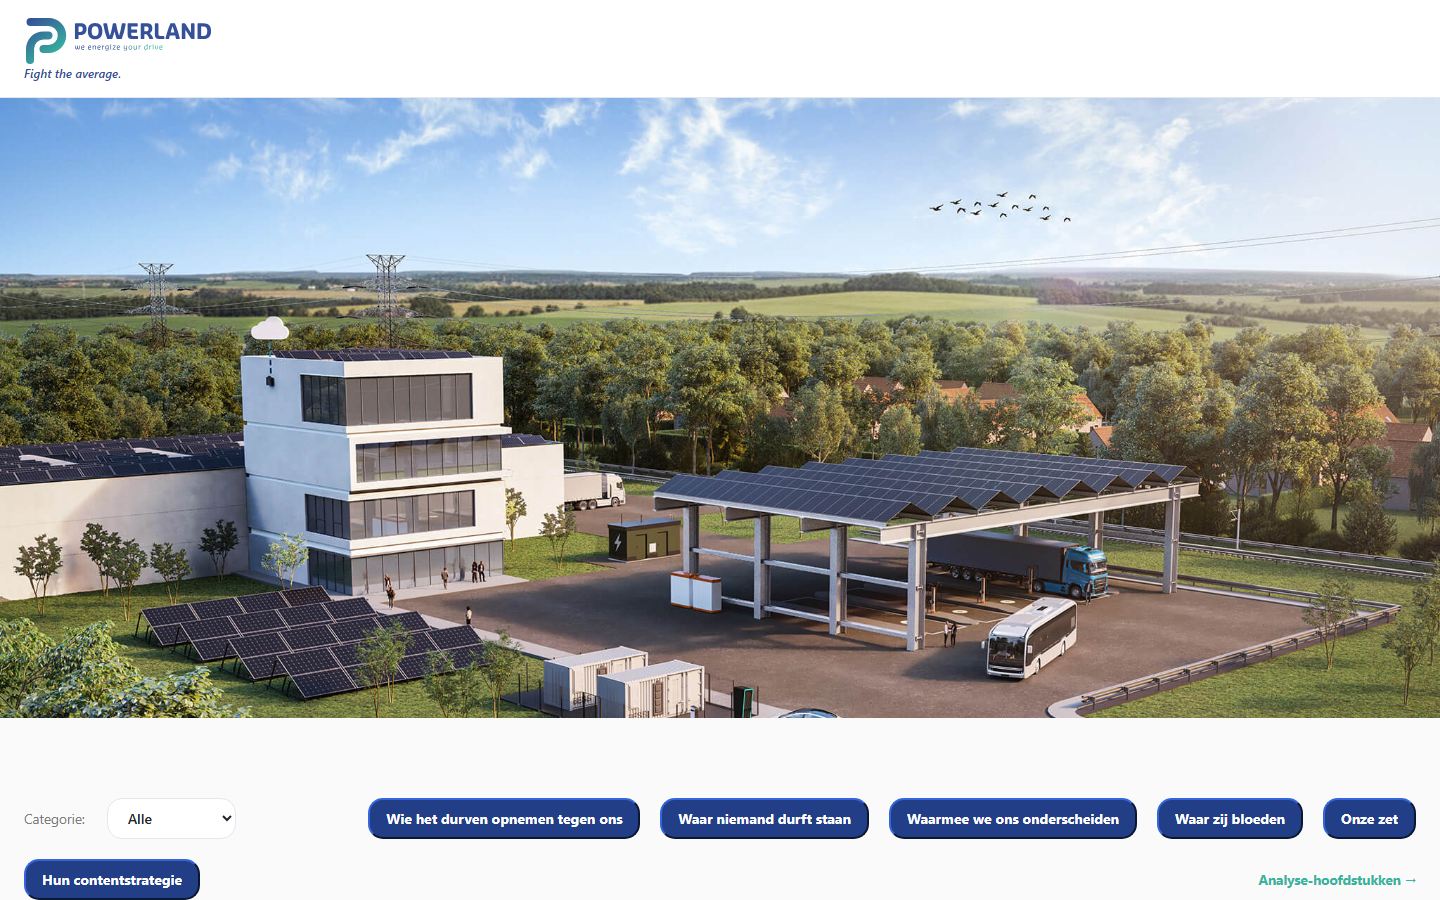
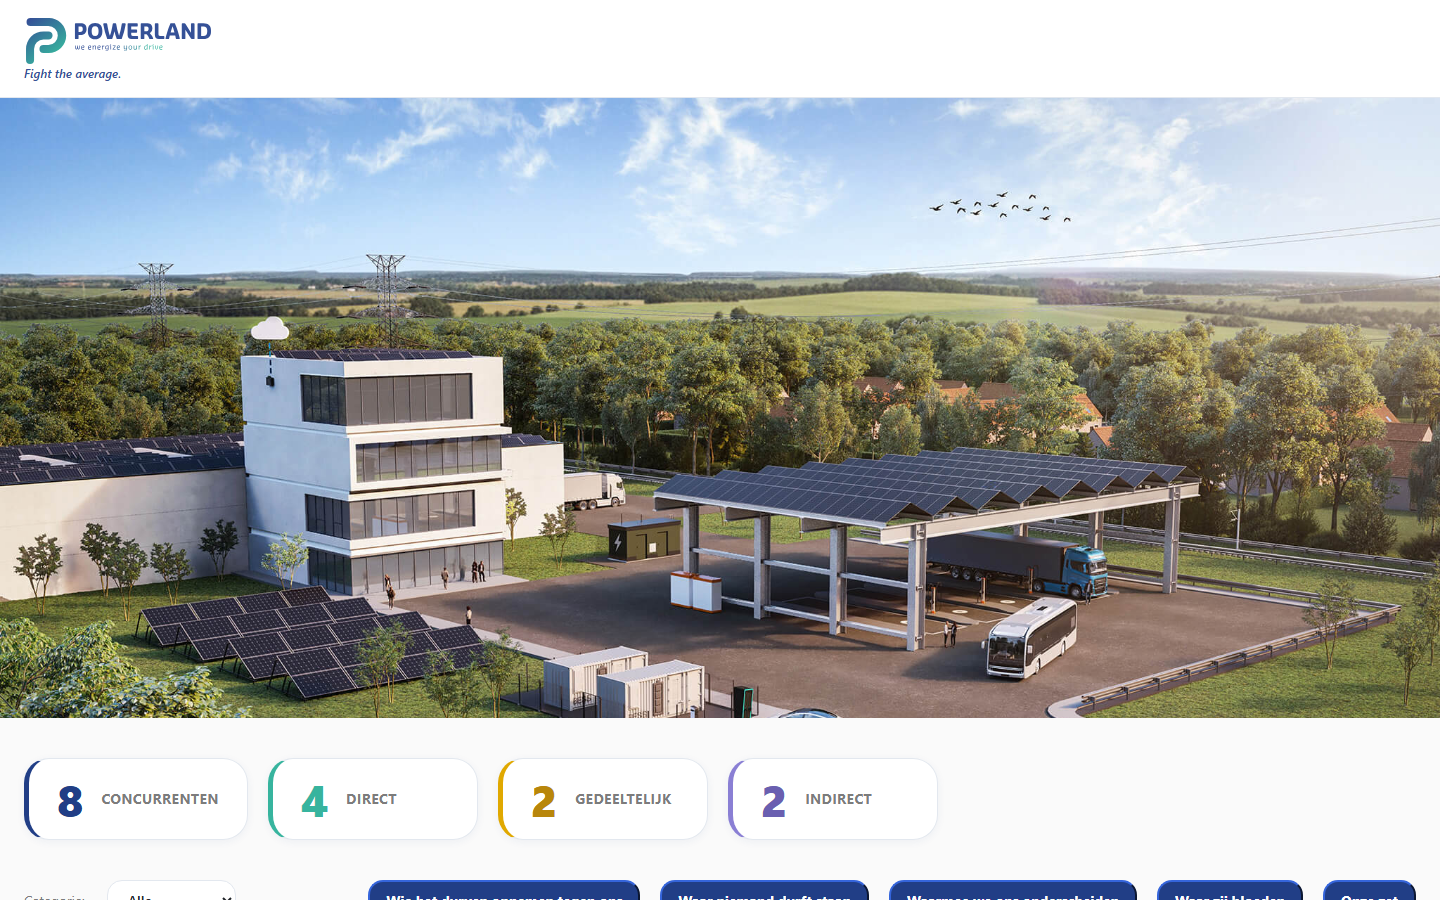
fix(docs): social_session_scrape ToS-kanttekening = open beslissing (niet 'geaccepteerd')
Eerdere sessie claimde ten onrechte Camil's akkoord. 5.2 mag pas na
expliciete 'ja' op ToS-risico.

Changed region(s): [[0.1875, 0.8711, 1.0, 0.9333], [0.25, 0.9644, 1.0, 1.0], [0.0, 0.8711, 0.1562, 1.0]]

diff --git a/concurrent-ceratec.html b/concurrent-ceratec.html
@@ -176,9 +176,9 @@ th{
 </div></div>
 <h2>Waarom wij (onze tegenzet)</h2>
 <div class="card">
-<div class='row'><b>Hun zwakte → ons spel:</b> <span class="placeholder">nog niet ingevuld</span></div>
-<div class='row'><b>Ons spel:</b> Claim het geïntegreerde opwek+stockeert+beheer-verhaal; Ceratec is eerder elektrotechnisch bedrijf</div>
-<div class='row'><b>Confidence:</b> midden</div>
+<div class='row'><b>Waar zij bloeden (zwaktes):</b> <span class="placeholder">nog niet ingevuld</span></div>
+<div class='row'><b>Waar wij winnen:</b> Claim het geïntegreerde opwek+stockeert+beheer-verhaal; Ceratec is eerder elektrotechnisch bedrijf</div>
+<div class='row'><b>Vertrouwen:</b> midden</div>
 </div>
 <h2>Bewijs</h2>
 <div class="card">

diff --git a/concurrent-extrapower.html b/concurrent-extrapower.html
@@ -176,9 +176,9 @@ th{
 </div></div>
 <h2>Waarom wij (onze tegenzet)</h2>
 <div class="card">
-<div class='row'><b>Hun zwakte → ons spel:</b> <span class="placeholder">nog niet ingevuld</span></div>
-<div class='row'><b>Ons spel:</b> Positioneer Powerland als de enige die laad + sturing + opwek écht integreert</div>
-<div class='row'><b>Confidence:</b> midden</div>
+<div class='row'><b>Waar zij bloeden (zwaktes):</b> <span class="placeholder">nog niet ingevuld</span></div>
+<div class='row'><b>Waar wij winnen:</b> Positioneer Powerland als de enige die laad + sturing + opwek écht integreert</div>
+<div class='row'><b>Vertrouwen:</b> midden</div>
 </div>
 <h2>Bewijs</h2>
 <div class="card">

diff --git a/concurrent-reeload.html b/concurrent-reeload.html
@@ -176,9 +176,9 @@ th{
 </div></div>
 <h2>Waarom wij (onze tegenzet)</h2>
 <div class="card">
-<div class='row'><b>Hun zwakte → ons spel:</b> <span class="placeholder">nog niet ingevuld</span></div>
-<div class='row'><b>Ons spel:</b> Zet Powerland zon + EMS in als verschil bij KMO/retail waar Reeload niet zit</div>
-<div class='row'><b>Confidence:</b> midden</div>
+<div class='row'><b>Waar zij bloeden (zwaktes):</b> <span class="placeholder">nog niet ingevuld</span></div>
+<div class='row'><b>Waar wij winnen:</b> Zet Powerland zon + EMS in als verschil bij KMO/retail waar Reeload niet zit</div>
+<div class='row'><b>Vertrouwen:</b> midden</div>
 </div>
 <h2>Bewijs</h2>
 <div class="card">

diff --git a/concurrent-mr-solar.html b/concurrent-mr-solar.html
@@ -176,9 +176,9 @@ th{
 </div></div>
 <h2>Waarom wij (onze tegenzet)</h2>
 <div class="card">
-<div class='row'><b>Hun zwakte → ons spel:</b> <span class="placeholder">nog niet ingevuld</span></div>
-<div class='row'><b>Ons spel:</b> Differentieer op industriële zwaarte &amp; EMS die MR Solar niet levert</div>
-<div class='row'><b>Confidence:</b> midden</div>
+<div class='row'><b>Waar zij bloeden (zwaktes):</b> <span class="placeholder">nog niet ingevuld</span></div>
+<div class='row'><b>Waar wij winnen:</b> Differentieer op industriële zwaarte &amp; EMS die MR Solar niet levert</div>
+<div class='row'><b>Vertrouwen:</b> midden</div>
 </div>
 <h2>Bewijs</h2>
 <div class="card">

diff --git a/concurrent-iq-solar.html b/concurrent-iq-solar.html
@@ -176,9 +176,9 @@ th{
 </div></div>
 <h2>Waarom wij (onze tegenzet)</h2>
 <div class="card">
-<div class='row'><b>Hun zwakte → ons spel:</b> <span class="placeholder">nog niet ingevuld</span></div>
-<div class='row'><b>Ons spel:</b> Benader IQ Solar op B2B/EMS-ecosysteem — zij hebben dat verhaal niet</div>
-<div class='row'><b>Confidence:</b> midden</div>
+<div class='row'><b>Waar zij bloeden (zwaktes):</b> <span class="placeholder">nog niet ingevuld</span></div>
+<div class='row'><b>Waar wij winnen:</b> Benader IQ Solar op B2B/EMS-ecosysteem — zij hebben dat verhaal niet</div>
+<div class='row'><b>Vertrouwen:</b> midden</div>
 </div>
 <h2>Bewijs</h2>
 <div class="card">

diff --git a/concurrent-electra.html b/concurrent-electra.html
@@ -176,9 +176,9 @@ th{
 </div></div>
 <h2>Waarom wij (onze tegenzet)</h2>
 <div class="card">
-<div class='row'><b>Hun zwakte → ons spel:</b> <span class="placeholder">nog niet ingevuld</span></div>
-<div class='row'><b>Ons spel:</b> Niet bevechten; partner mogelijk (zij netwerk, wij installatie)</div>
-<div class='row'><b>Confidence:</b> midden</div>
+<div class='row'><b>Waar zij bloeden (zwaktes):</b> <span class="placeholder">nog niet ingevuld</span></div>
+<div class='row'><b>Waar wij winnen:</b> Niet bevechten; partner mogelijk (zij netwerk, wij installatie)</div>
+<div class='row'><b>Vertrouwen:</b> midden</div>
 </div>
 <h2>Bewijs</h2>
 <div class="card">

diff --git a/concurrent-ionity.html b/concurrent-ionity.html
@@ -176,9 +176,9 @@ th{
 </div></div>
 <h2>Waarom wij (onze tegenzet)</h2>
 <div class="card">
-<div class='row'><b>Hun zwakte → ons spel:</b> <span class="placeholder">nog niet ingevuld</span></div>
-<div class='row'><b>Ons spel:</b> Niet bevechten; focus op wat zij niet doen (opwek+sturing)</div>
-<div class='row'><b>Confidence:</b> midden</div>
+<div class='row'><b>Waar zij bloeden (zwaktes):</b> <span class="placeholder">nog niet ingevuld</span></div>
+<div class='row'><b>Waar wij winnen:</b> Niet bevechten; focus op wat zij niet doen (opwek+sturing)</div>
+<div class='row'><b>Vertrouwen:</b> midden</div>
 </div>
 <h2>Bewijs</h2>
 <div class="card">

diff --git a/concurrent-torre.html b/concurrent-torre.html
@@ -176,9 +176,9 @@ th{
 </div></div>
 <h2>Waarom wij (onze tegenzet)</h2>
 <div class="card">
-<div class='row'><b>Hun zwakte → ons spel:</b> <span class="placeholder">nog niet ingevuld</span></div>
-<div class='row'><b>Ons spel:</b> Zet in op projecten &gt;KMO waar Torré niet thuis hoort</div>
-<div class='row'><b>Confidence:</b> midden</div>
+<div class='row'><b>Waar zij bloeden (zwaktes):</b> <span class="placeholder">nog niet ingevuld</span></div>
+<div class='row'><b>Waar wij winnen:</b> Zet in op projecten &gt;KMO waar Torré niet thuis hoort</div>
+<div class='row'><b>Vertrouwen:</b> midden</div>
 </div>
 <h2>Bewijs</h2>
 <div class="card">

diff --git a/scripts/social_session_scrape.py b/scripts/social_session_scrape.py
@@ -5,9 +5,9 @@ Gebruikt CAMIL's eigen Firefox-profile (uleqsbna.default) met ingelogde
 FB/IG/LinkedIn-sessie. Geen API-key, geen derde partij, geen maandbedrag.
 Draait headless; stoort Camil niet (profile is apart van zijn hoofd-profile).
 
-ToS-kanttekening (Camil geaccepteerd 2026-08-25): sessie-scraping schendt
-FB/IG/LinkedIn voorwaarden; risico op account-beperking is de prijs van
-"permanent gratis". Camil weegt dat af en aanvaardt het.
+ToS-kanttekening (OPEN BESLISSING — nog niet geaccepteerd door Camil):
+sessie-scraping schendt FB/IG/LinkedIn voorwaarden; risico op account-beperking
+is de prijs van "permanent gratis". Camil weegt dit af vóórdat 5.2 mag draaien.
 
 Gebruik: python social_session_scrape.py [--cid <id>]  (alle als geen cid)
 """
